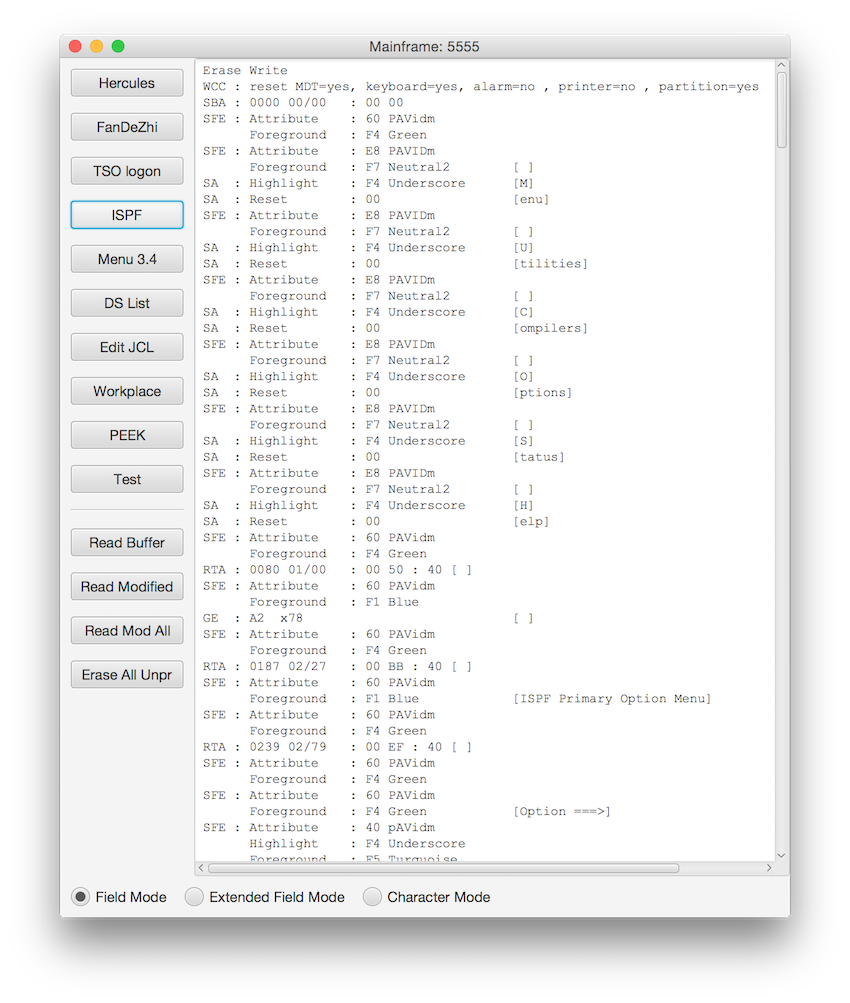
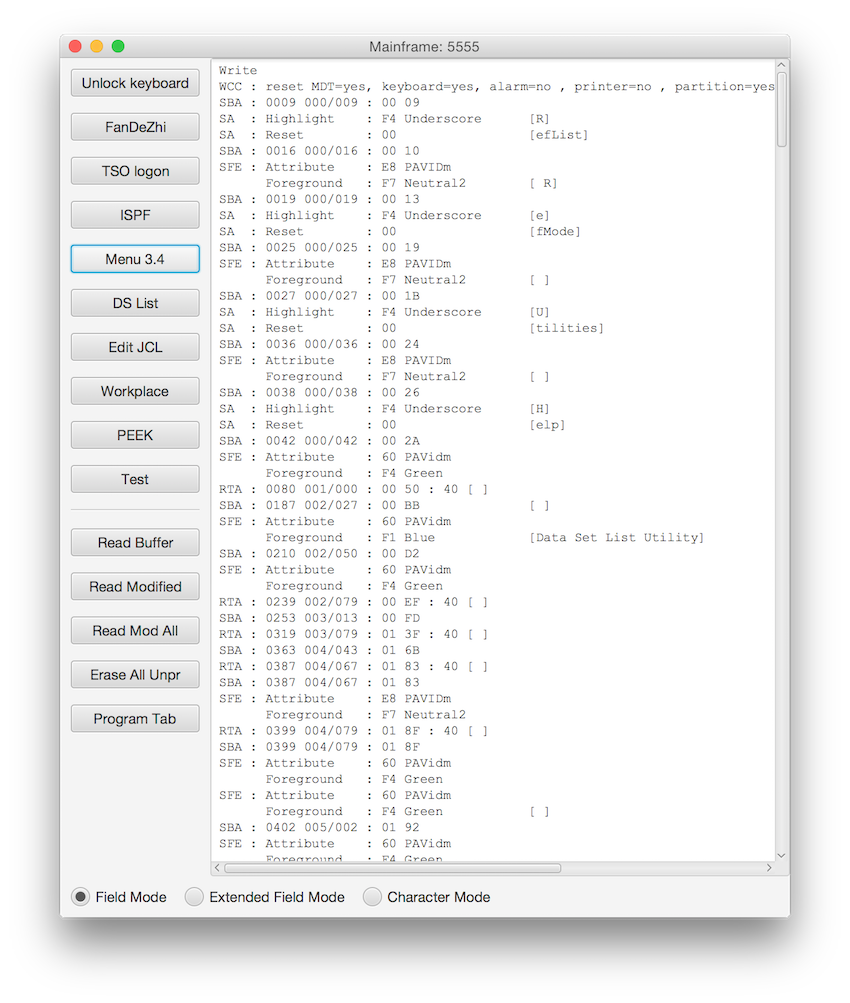
updated controls

diff --git a/src/com/bytezone/dm3270/application/MainframeStage.java b/src/com/bytezone/dm3270/application/MainframeStage.java
@@ -89,7 +89,7 @@ public class MainframeStage extends BasicTelnetStage implements Mainframe
 
     final VBox vBox = getVBox ();
 
-    for (int i = 0; i < 11; i++)
+    for (int i = 0; i < 10; i++)
       buttons.add (getButton ("Empty", vBox, BUTTON_WIDTH));
 
     Separator separator = new Separator ();
@@ -208,7 +208,7 @@ public class MainframeStage extends BasicTelnetStage implements Mainframe
     if (in == null)
     {
       System.out.println ("mf.txt not found");
-      Platform.exit ();
+      //      Platform.exit ();
       return;
     }
     BufferedReader reader = new BufferedReader (new InputStreamReader (in));
@@ -230,6 +230,8 @@ public class MainframeStage extends BasicTelnetStage implements Mainframe
     SessionRecord dr = createCommand ();
     session.add (dr);
     labels.add ("Test");
+    System.out.println (labels.size ());
+    System.out.println (buttons.size ());
 
     int buttonNo = 0;
     for (SessionRecord dataRecord : session)
